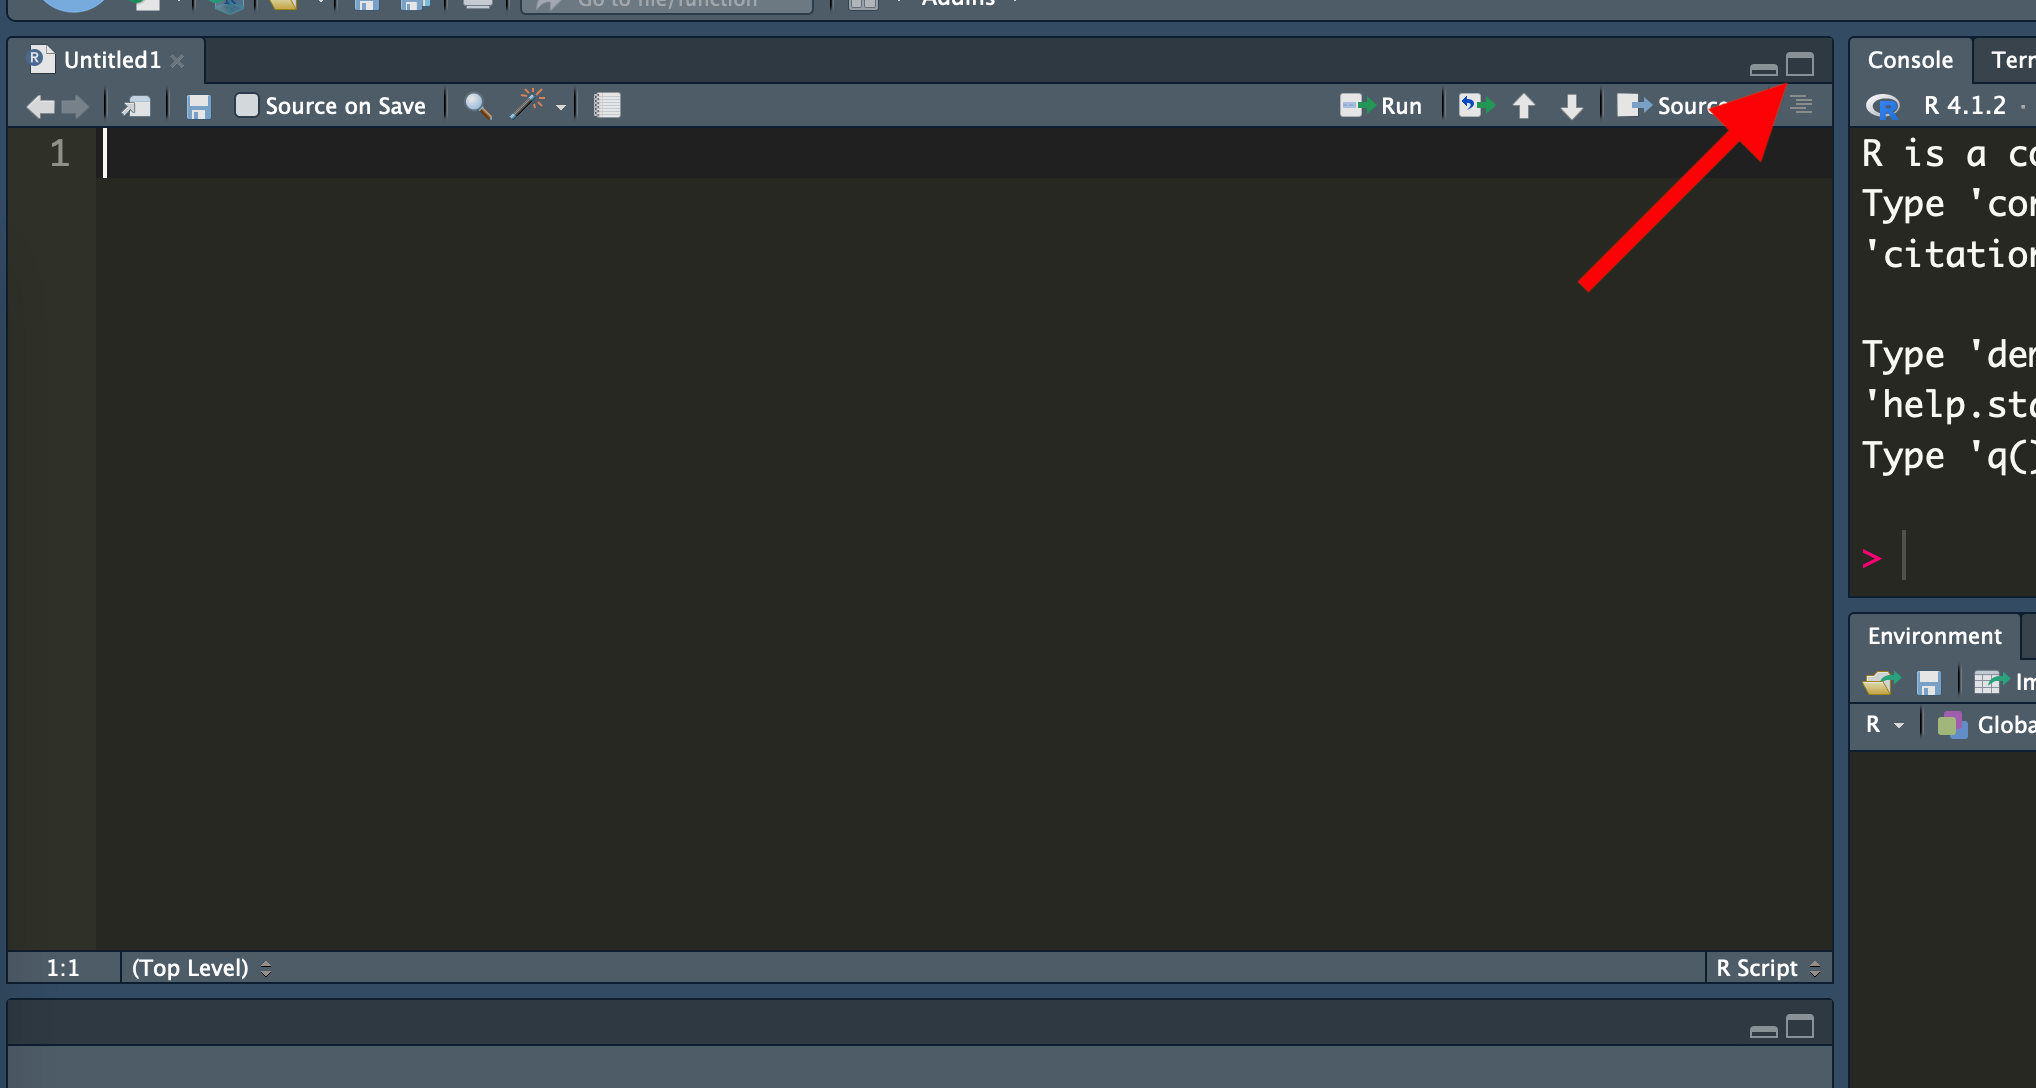
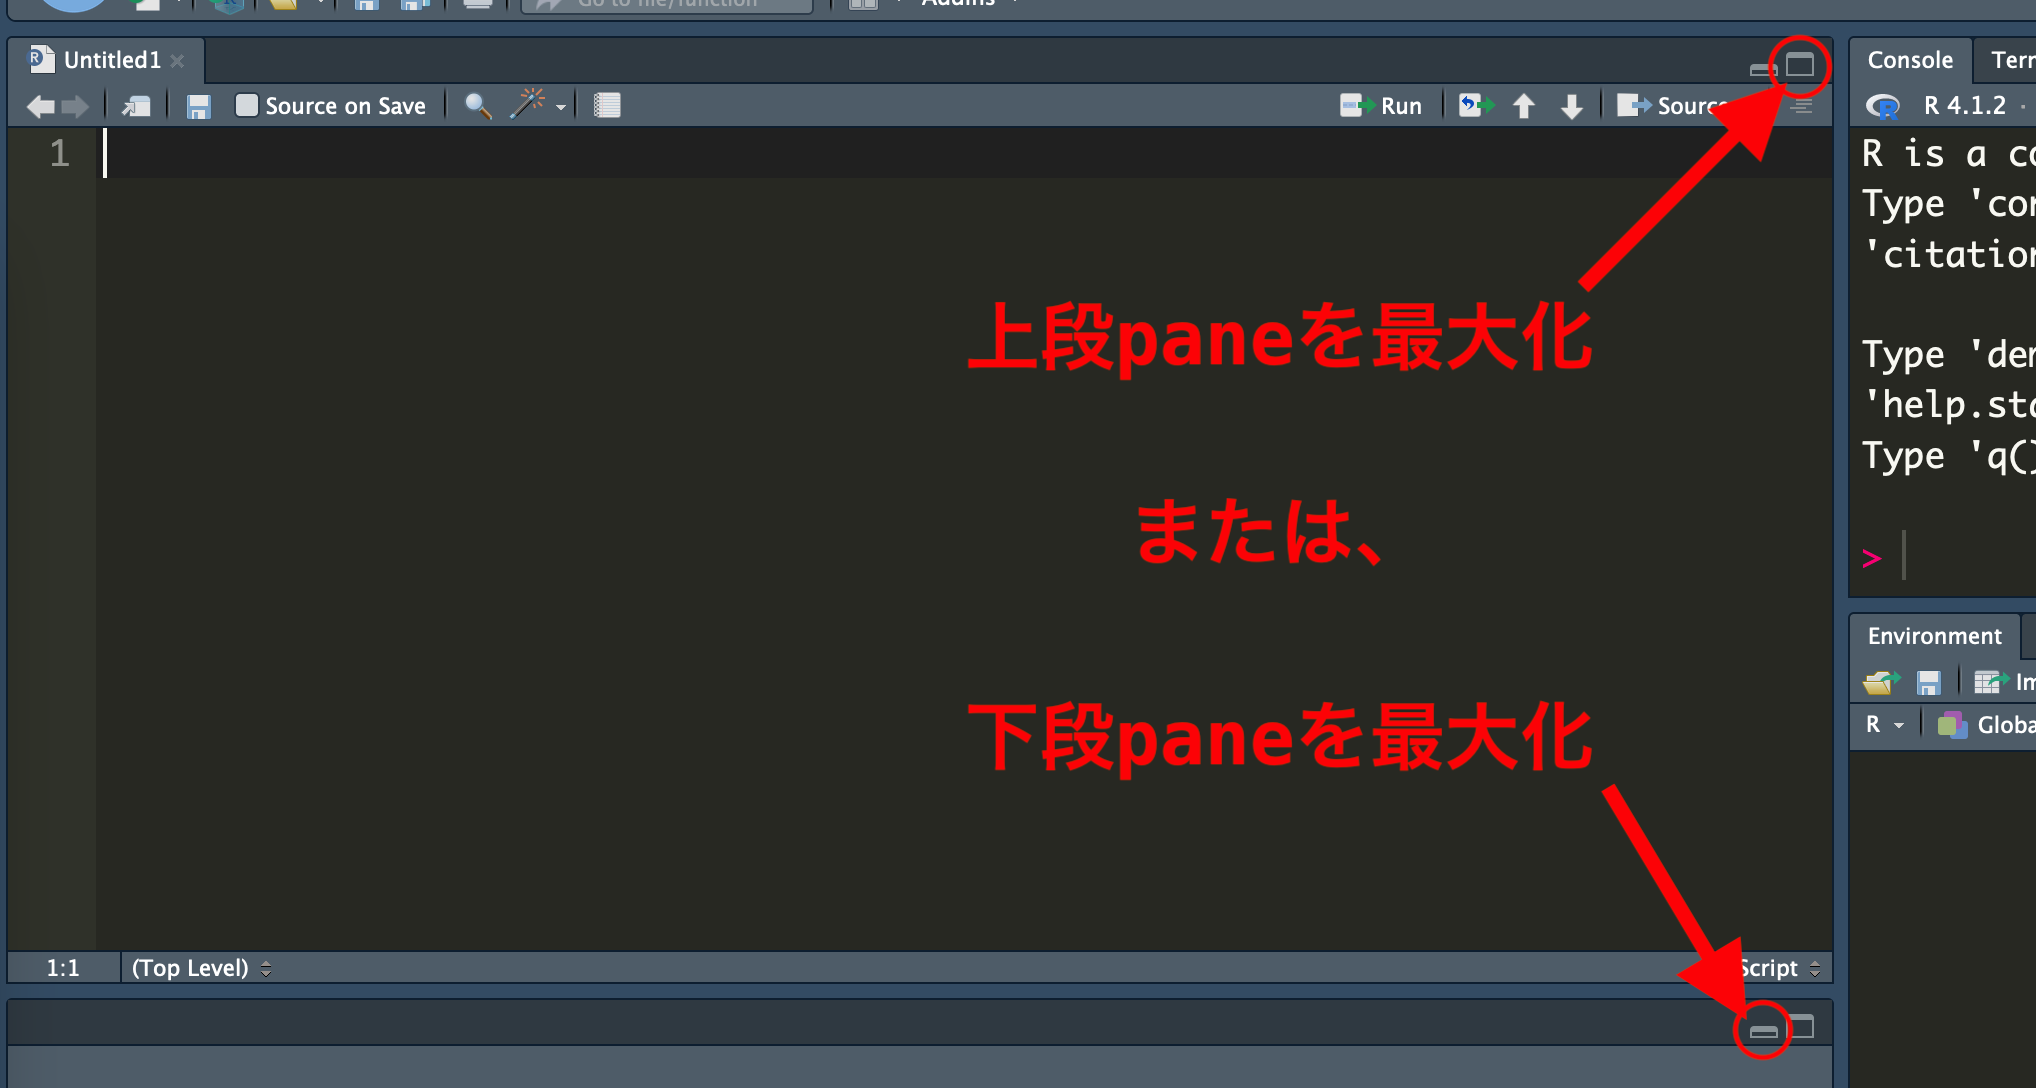
no message

diff --git a/docs/materials/micro/basic.html b/docs/materials/micro/basic.html
@@ -2,7 +2,7 @@
 <html xmlns="http://www.w3.org/1999/xhtml" lang="en" xml:lang="en"><head>
 
 <meta charset="utf-8">
-<meta name="generator" content="quarto-1.4.551">
+<meta name="generator" content="quarto-1.4.553">
 
 <meta name="viewport" content="width=device-width, initial-scale=1.0, user-scalable=yes">
 
@@ -536,16 +536,29 @@ window.Quarto = {
 </section>
 <section id="電卓としてのr" class="level2">
 <h2 class="anchored" data-anchor-id="電卓としてのr">電卓としてのR</h2>
+<div class="callout callout-style-default callout-important callout-titled">
+<div class="callout-header d-flex align-content-center">
+<div class="callout-icon-container">
+<i class="callout-icon"></i>
+</div>
+<div class="callout-title-container flex-fill">
+自分のRStudioの画面の以下の資料のレイアウトが一致しない
+</div>
+</div>
+<div class="callout-body-container callout-body">
+<p>以下の画面は<a href="../../intro/rstudio.html" target="_blank">本講義の推奨設定</a>に従った場合のレイアウトである。あくまでも推奨設定なので従う必要はないものの、本講義は全て推奨設定の前提で進める。推奨設定以外の設定（または、初期設定のまま）は自己責任である。</p>
+</div>
+</div>
 <p><strong>手順1:</strong> File &gt; New File &gt; R Scriptをクリックする。</p>
 <div class="quarto-figure quarto-figure-center">
 <figure class="figure">
 <p><img src="Figs/basic/Script_1.png" class="img-fluid quarto-figure quarto-figure-center figure-img" style="width:75.0%"></p>
 </figure>
 </div>
-<p><strong>手順2:</strong> Sourceペインのペイン最大化ポタンをクリックし、Sourceペインの大きさ最大化する。</p>
+<p><strong>手順2:</strong> 画面左側の上段ペインの最大化ポタンをクリックするか、下段ペインの最小化ポタンをクリックし、Sourceペインの大きさ最大化する。</p>
 <div class="quarto-figure quarto-figure-center">
 <figure class="figure">
-<p><img src="Figs/basic/Script_2.png" class="img-fluid quarto-figure quarto-figure-center figure-img" style="width:75.0%"></p>
+<p><img src="Figs/basic/Script_2.png" class="img-fluid quarto-figure quarto-figure-center figure-img" style="width:100.0%"></p>
 </figure>
 </div>
 <p><strong>手順3:</strong> Sourceペインに以下の内容を入力する。</p>

diff --git a/docs/slides/micro/basic.html b/docs/slides/micro/basic.html
@@ -718,13 +718,9 @@
 <h2>Rにおけるベクトル</h2>
 <p>ベクトル（vector）: Rにおけるデータの最小単位</p>
 <ul>
-<li>同じデータ型（数値、文字列など）
+<li>ベクトル内の全ての要素（element）は同じデータ型（数値型、文字型など）
 <ul>
 <li>数値と文字列が混在するベクトルは作成不可</li>
-</ul></li>
-<li>長さは1以上
-<ul>
-<li><code>1</code>や<code>"Cat"</code>は長さ1のベクトル</li>
 </ul></li>
 <li><code>c()</code>関数で作成
 <ul>
@@ -772,11 +768,11 @@
 <h2>オブジェクトの名前</h2>
 <p>基本的にオブジェクト名は何でも良いが、いくつかの禁則事項がある</p>
 <ul>
-<li>特殊記号、スペース禁止（例外: <code>_</code>と<code>.</code>）
+<li>特殊記号、スペース禁止（例外：<code>_</code>と<code>.</code>）
 <ul>
 <li>スペースの代わりに<code>_</code>か<code>.</code>が使われるが、<code>_</code>を推奨</li>
 </ul></li>
-<li>数字、または<code>_</code>、<code>.</code>で始まるオブジェクト名</li>
+<li>数字、または<code>_</code>、<code>.</code>で始まるオブジェクト名は使えない</li>
 <li>予約語は使えない（<code>for</code>や<code>if</code>など）
 <ul>
 <li>使える予約語もあるが、非推奨</li>
@@ -788,6 +784,10 @@
 <ul>
 <li>オブジェクト名を見るだけで、中身の内容が想像できる</li>
 <li>短いオブジェクト名</li>
+<li>結論：短い、かつ具体的な名前が望ましい
+<ul>
+<li><span class="math inline">\(\Rightarrow\)</span> どうすりゃいいんだ…</li>
+</ul></li>
 </ul>
 </section>
 <section id="オブジェクトの表示" class="slide level2">
@@ -817,7 +817,7 @@
 </div>
 </div>
 <ul>
-<li>Rを再起動すると作業環境が初期化されるため、もう一回作成する必要がある。
+<li><strong>Rを再起動すると作業環境が初期化される</strong>ため、もう一回作成する必要がある。
 <ul>
 <li>コードを記録し、残すことが重要</li>
 </ul></li>

diff --git a/docs/index.html b/docs/index.html
@@ -2,7 +2,7 @@
 <html xmlns="http://www.w3.org/1999/xhtml" lang="en" xml:lang="en"><head>
 
 <meta charset="utf-8">
-<meta name="generator" content="quarto-1.4.551">
+<meta name="generator" content="quarto-1.4.553">
 
 <meta name="viewport" content="width=device-width, initial-scale=1.0, user-scalable=yes">
 
@@ -446,14 +446,14 @@ gtag('config', 'G-9TLN2VMPQD', { 'anonymize_ip': true});
 </div>
 <div class="callout-body-container callout-body">
 <ul>
-<li>最終更新日: 2024年04月02日</li>
+<li>最終更新日: 2024年04月19日</li>
 <li>開発環境
 <ul>
 <li>macOS Sonoma 14.4.1</li>
-<li>Firefox 124.0.1</li>
+<li>Firefox 124.0.2</li>
 <li>R version 4.3.3 (2024-02-29)</li>
 <li>RStudio 2023.12.1+402</li>
-<li>Quarto 1.4.551</li>
+<li>Quarto 1.4.553</li>
 <li>R package {quarto} 1.4</li>
 </ul></li>
 </ul>

diff --git a/docs/materials/micro/r.html b/docs/materials/micro/r.html
@@ -2,7 +2,7 @@
 <html xmlns="http://www.w3.org/1999/xhtml" lang="en" xml:lang="en"><head>
 
 <meta charset="utf-8">
-<meta name="generator" content="quarto-1.4.551">
+<meta name="generator" content="quarto-1.4.553">
 
 <meta name="viewport" content="width=device-width, initial-scale=1.0, user-scalable=yes">
 
